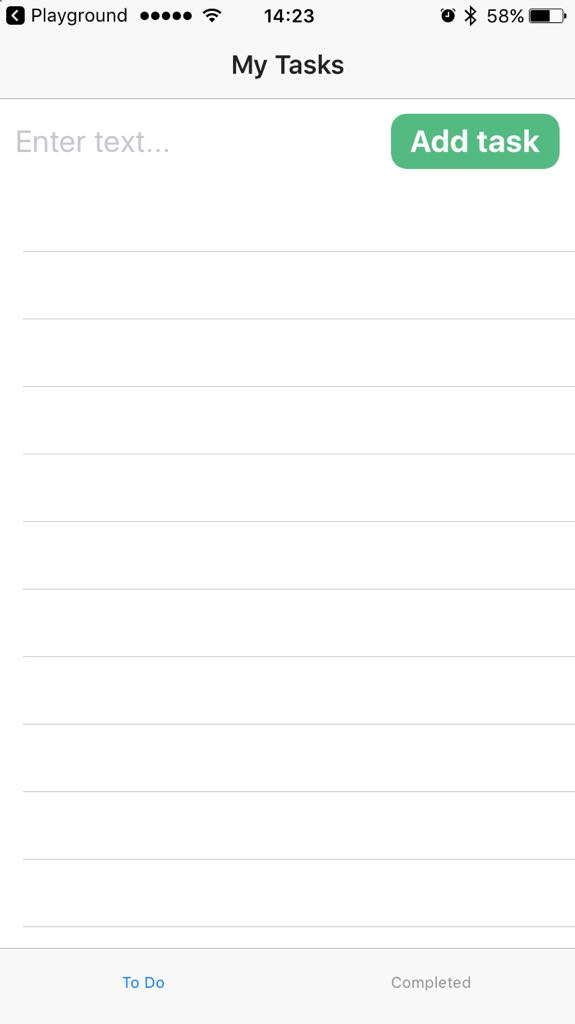
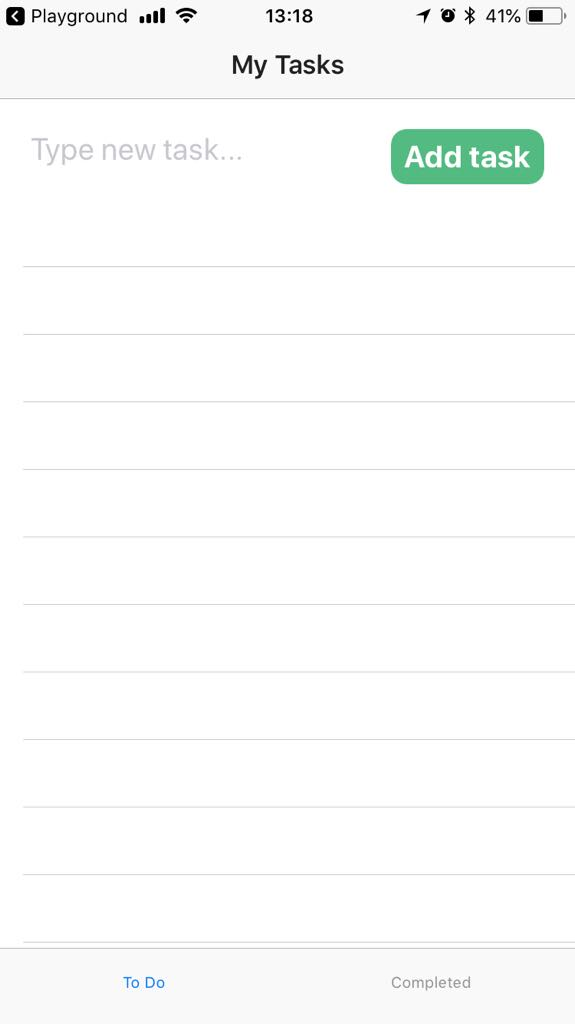
Styled active tasks

diff --git a/content/docs/en/getting-started/2-playground-tutorial.md b/content/docs/en/getting-started/2-playground-tutorial.md
@@ -21,6 +21,8 @@ You can work in the Playground for as long as you like. You can use it to just g
     * [Basic functionality: View, complete, and delete tasks from the To Do tab](#basic-functionality-view-complete-and-delete-tasks-from-the-to-do-tab)
     * [Basic functionality: View, return to active tasks, and delete tasks from the Completed tab](#basic-functionality-view-return-to-active-tasks-and-delete-tasks-from-the-completed-tab)
     * [Advanced design: Styled input field and button](#advanced-design-styled-input-field-and-button)
+    * [Advanced design: Styled tab navigation](#advanced-design-styled-tab-navigation)
+    * [Advanced design: Styled active tasks](#advanced-design-styled-active-tasks)
 
 
 # Part 1: Getting familiar with the Playground
@@ -97,7 +99,7 @@ If you want to explore the [NativeScript Playground](https://play.nativescript.o
 * (In progress) Advanced design
   * Input and button for adding tasks are styled
   * Tabs are styled
-  * (Coming soon) Active tasks are styled
+  * Active tasks are styled
   * (Coming soon) Completed tasks are styled
 * (Coming soon) Advanced functionality
   * (Coming soon) Store timestamp data for each task
@@ -545,9 +547,9 @@ With type selectors, you can select a UI component and apply styling to it. To s
 
 ### Requirement implementation
 
-#### Input field
+#### Style the input field
 
-In `app.css`, change the font size and the color and the margins around the `<TextField>`.
+In `app.css`, change the font size, the color, and the margins around the `<TextField>`.
 
 ```CSS
 TextField{
@@ -556,11 +558,11 @@ TextField{
     margin-top: 10;
     margin-bottom: 10;
     margin-right: 5;
-    margin-left: 10;
+    margin-left: 20;
 }
 ```
 
-#### Button
+#### Style the button
 
 1. In `app.js` on line 63, add an `id` for the button.
 
@@ -575,9 +577,9 @@ TextField{
     font-weight: bold;
     color: white;
     background-color: #53ba82;
-    margin-top: 10;
+    margin-top: 20;
     margin-bottom: 10;
-    margin-right: 10;
+    margin-right: 20;
     margin-left: 5;
     border-radius: 20px;
   }
@@ -603,20 +605,59 @@ Here's how your app will look at the start and at the end of this section.
 
 #### Change color and font size of selected tab title
 
-* In `app.js`, on line 57, add the `selectedTabTextColor` and `tabTextFontSize` property. If you're testing this on iOS, the font size will not change but should work fine on Android.
+In `app.js`, on line 57, add the `selectedTabTextColor` and `tabTextFontSize` property. If you're testing this on iOS, the font size will not change but should work fine on Android.
 
-  ```HTML
-  <TabView height="100%" selectedTabTextColor="#53ba82" tabTextFontSize="20" >
-  ```
+```HTML
+<TabView height="100%" selectedTabTextColor="#53ba82" tabTextFontSize="20" >
+```
 
 #### Transform text
 
-* In `app.js`, on lines 58 and 73, apply the `textTransform` property. You can use this property only on the `<TabViewItem>` level.
+In `app.js`, on lines 58 and 73, apply the `textTransform` property. You can use this property only on the `<TabViewItem>` level.
+
+```HTML
+<TabViewItem title="To Do" textTransform="uppercase" >
+```
+
+```HTML
+<TabViewItem title="Completed" textTransform="uppercase">
+```
+
+## Advanced design: Styled active tasks
+
+Here's how your app will look at the start and at the end of this section.
+
+| Active tasks - No style | Active tasks - no separator | Active tasks - styled active tasks 
+|-----|-------------|
+| ![Unstyled active tasks](/screenshots/ns-playground/styled-list-view-no-separator.jpg) | ![No separator](/screenshots/ns-playground/styled-tabs.jpg) | ![Styled list](/screenshots/ns-playground/styled-list-view-added-tasks.jpg)
+
+### Some NativeScript basics
+
+`<ListView>` and `<Label>` have out of the box style properties that you can use to control elements such as the list separator or the text wrap from `app.js`. To change the font style, color, and positioning of text, you need to use CSS in `app.css`.
+
+To implement a style particularly for the text of active tasks, you can set an `id` for the `<Label>` element.
+
+### Requirement implementation
+
+1. In `app.js`, on line 67, set an `id` for the `<Label>` that represents active tasks and enable text wrapping. Enabling text wrapping ensures that longer text shows properly in your list
 
   ```HTML
-  <TabViewItem title="To Do" textTransform="uppercase" >
+  <Label id="active-task" :text="todo.name" textWrap="true" >
   ```
+1. On line 65, add the `separatorColor` property and set it to `transparent`. This way, the separator will no longer appear in your list.
 
   ```HTML
-  <TabViewItem title="Completed" textTransform="uppercase">
+  <ListView for="todo in todos" @itemTap="onItemTap" height="100%" separatorColor="transparent">
+  ```
+1. In `app.css`, create the style for active tasks. Set font size, color, and some padding to position the text on the page. Play with margins and paddings until you get a result that works for you.
+
+  ```CSS
+  #active-task{
+    font-size: 20;
+    font-weight: bold;
+    color: #53ba82;
+    margin-left: 20;
+    padding-top: 5;
+    padding-bottom: 10;
+  }
   ```
